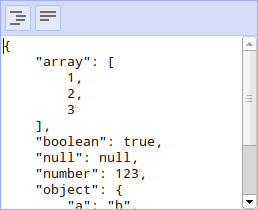
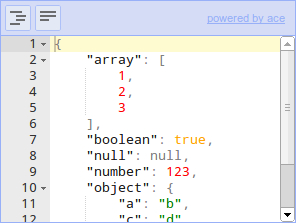
Docs and readme updated

diff --git a/app/web/test.html b/app/web/test.html
@@ -12,7 +12,7 @@
     @brief
     JSON Editor Online is a web-based tool to view, edit, and format JSON.
     It shows your data side by side in a clear, editable treeview and in 
-    formatted plain text.
+    a code editor.
     
     Supported browsers: Chrome, Firefox, Safari, Opera, Internet Explorer 8+
 
@@ -39,7 +39,7 @@
     @date     2013-03-08
     -->
 
-    <meta name="description" content="JSON Editor Online is a web-based tool to view, edit, and format JSON. It shows your data side by side in a clear, editable treeview and in formatted plain text.">
+    <meta name="description" content="JSON Editor Online is a web-based tool to view, edit, and format JSON. It shows your data side by side in a clear, editable treeview and in a code editor.">
     <meta name="keywords" content="json, editor, formatter, online, format, parser, json editor, json editor online, online json editor, javascript, javascript object notation, tools, tool, json tools, treeview, open source, free, json parser, json parser online, json formatter, json formatter online, online json formatter, online json parser, format json online">
     <meta name="author" content="Jos de Jong">
 

diff --git a/app/web/index.html b/app/web/index.html
@@ -13,7 +13,7 @@
     @brief
     JSON Editor Online is a web-based tool to view, edit, and format JSON.
     It shows your data side by side in a clear, editable treeview and in 
-    formatted plain text.
+    a code editor.
 
     Supported browsers: Chrome, Firefox, Safari, Opera, Internet Explorer 8+
 
@@ -40,7 +40,7 @@
     @date     2013-03-08
     -->
 
-    <meta name="description" content="JSON Editor Online is a web-based tool to view, edit, and format JSON. It shows your data side by side in a clear, editable treeview and in formatted plain text.">
+    <meta name="description" content="JSON Editor Online is a web-based tool to view, edit, and format JSON. It shows your data side by side in a clear, editable treeview and in a code editor.">
     <meta name="keywords" content="json, editor, formatter, online, format, parser, json editor, json editor online, online json editor, javascript, javascript object notation, tools, tool, json tools, treeview, open source, free, json parser, json parser online, json formatter, json formatter online, online json formatter, online json parser, format json online">
     <meta name="author" content="Jos de Jong">
 

diff --git a/app/web/doc/index.html b/app/web/doc/index.html
@@ -13,7 +13,7 @@
     <p>
         JSON Editor Online is a web-based tool to view, edit, and format JSON.
         It shows your data side by side in a clear, editable treeview and in
-        formatted plain text.
+        a code editor.
     </p>
     <p>
         Supported browsers: Chrome, Firefox, Safari, Opera, Internet Explorer 8+.
@@ -57,10 +57,10 @@
     </p>
     <img src="img/splitter.png">
 
-    <h2 id="formatter">Formatter</h2>
+    <h2 id="formatter"> Formatter</h2>
     <p>
-        The JSON Formatter displays JSON data in plain text.
-        The Formatter is capable of formatting and compacting JSON.
+        The JSON Formatter displays JSON data in a code editor.
+        The Formatter is capable of formatting, compacting, and inspecting JSON.
     </p>
     <img src="img/jsonformatter.png">
     <p>

diff --git a/README.md b/README.md
@@ -27,7 +27,7 @@ a code editor.
 - Search & highlight text in the treeview.
 - Undo and redo all actions.
 - Load and save files and urls.
-- Format, compact, and inspect JSON in a code editor powered by [Ace](http://ace.ajax.org/).
+- Format, compact, and inspect JSON in the code editor powered by [Ace](http://ace.ajax.org/).
 - Library can be loaded as CommonJS module, AMD module, or as a regular javascript file.
 
 
